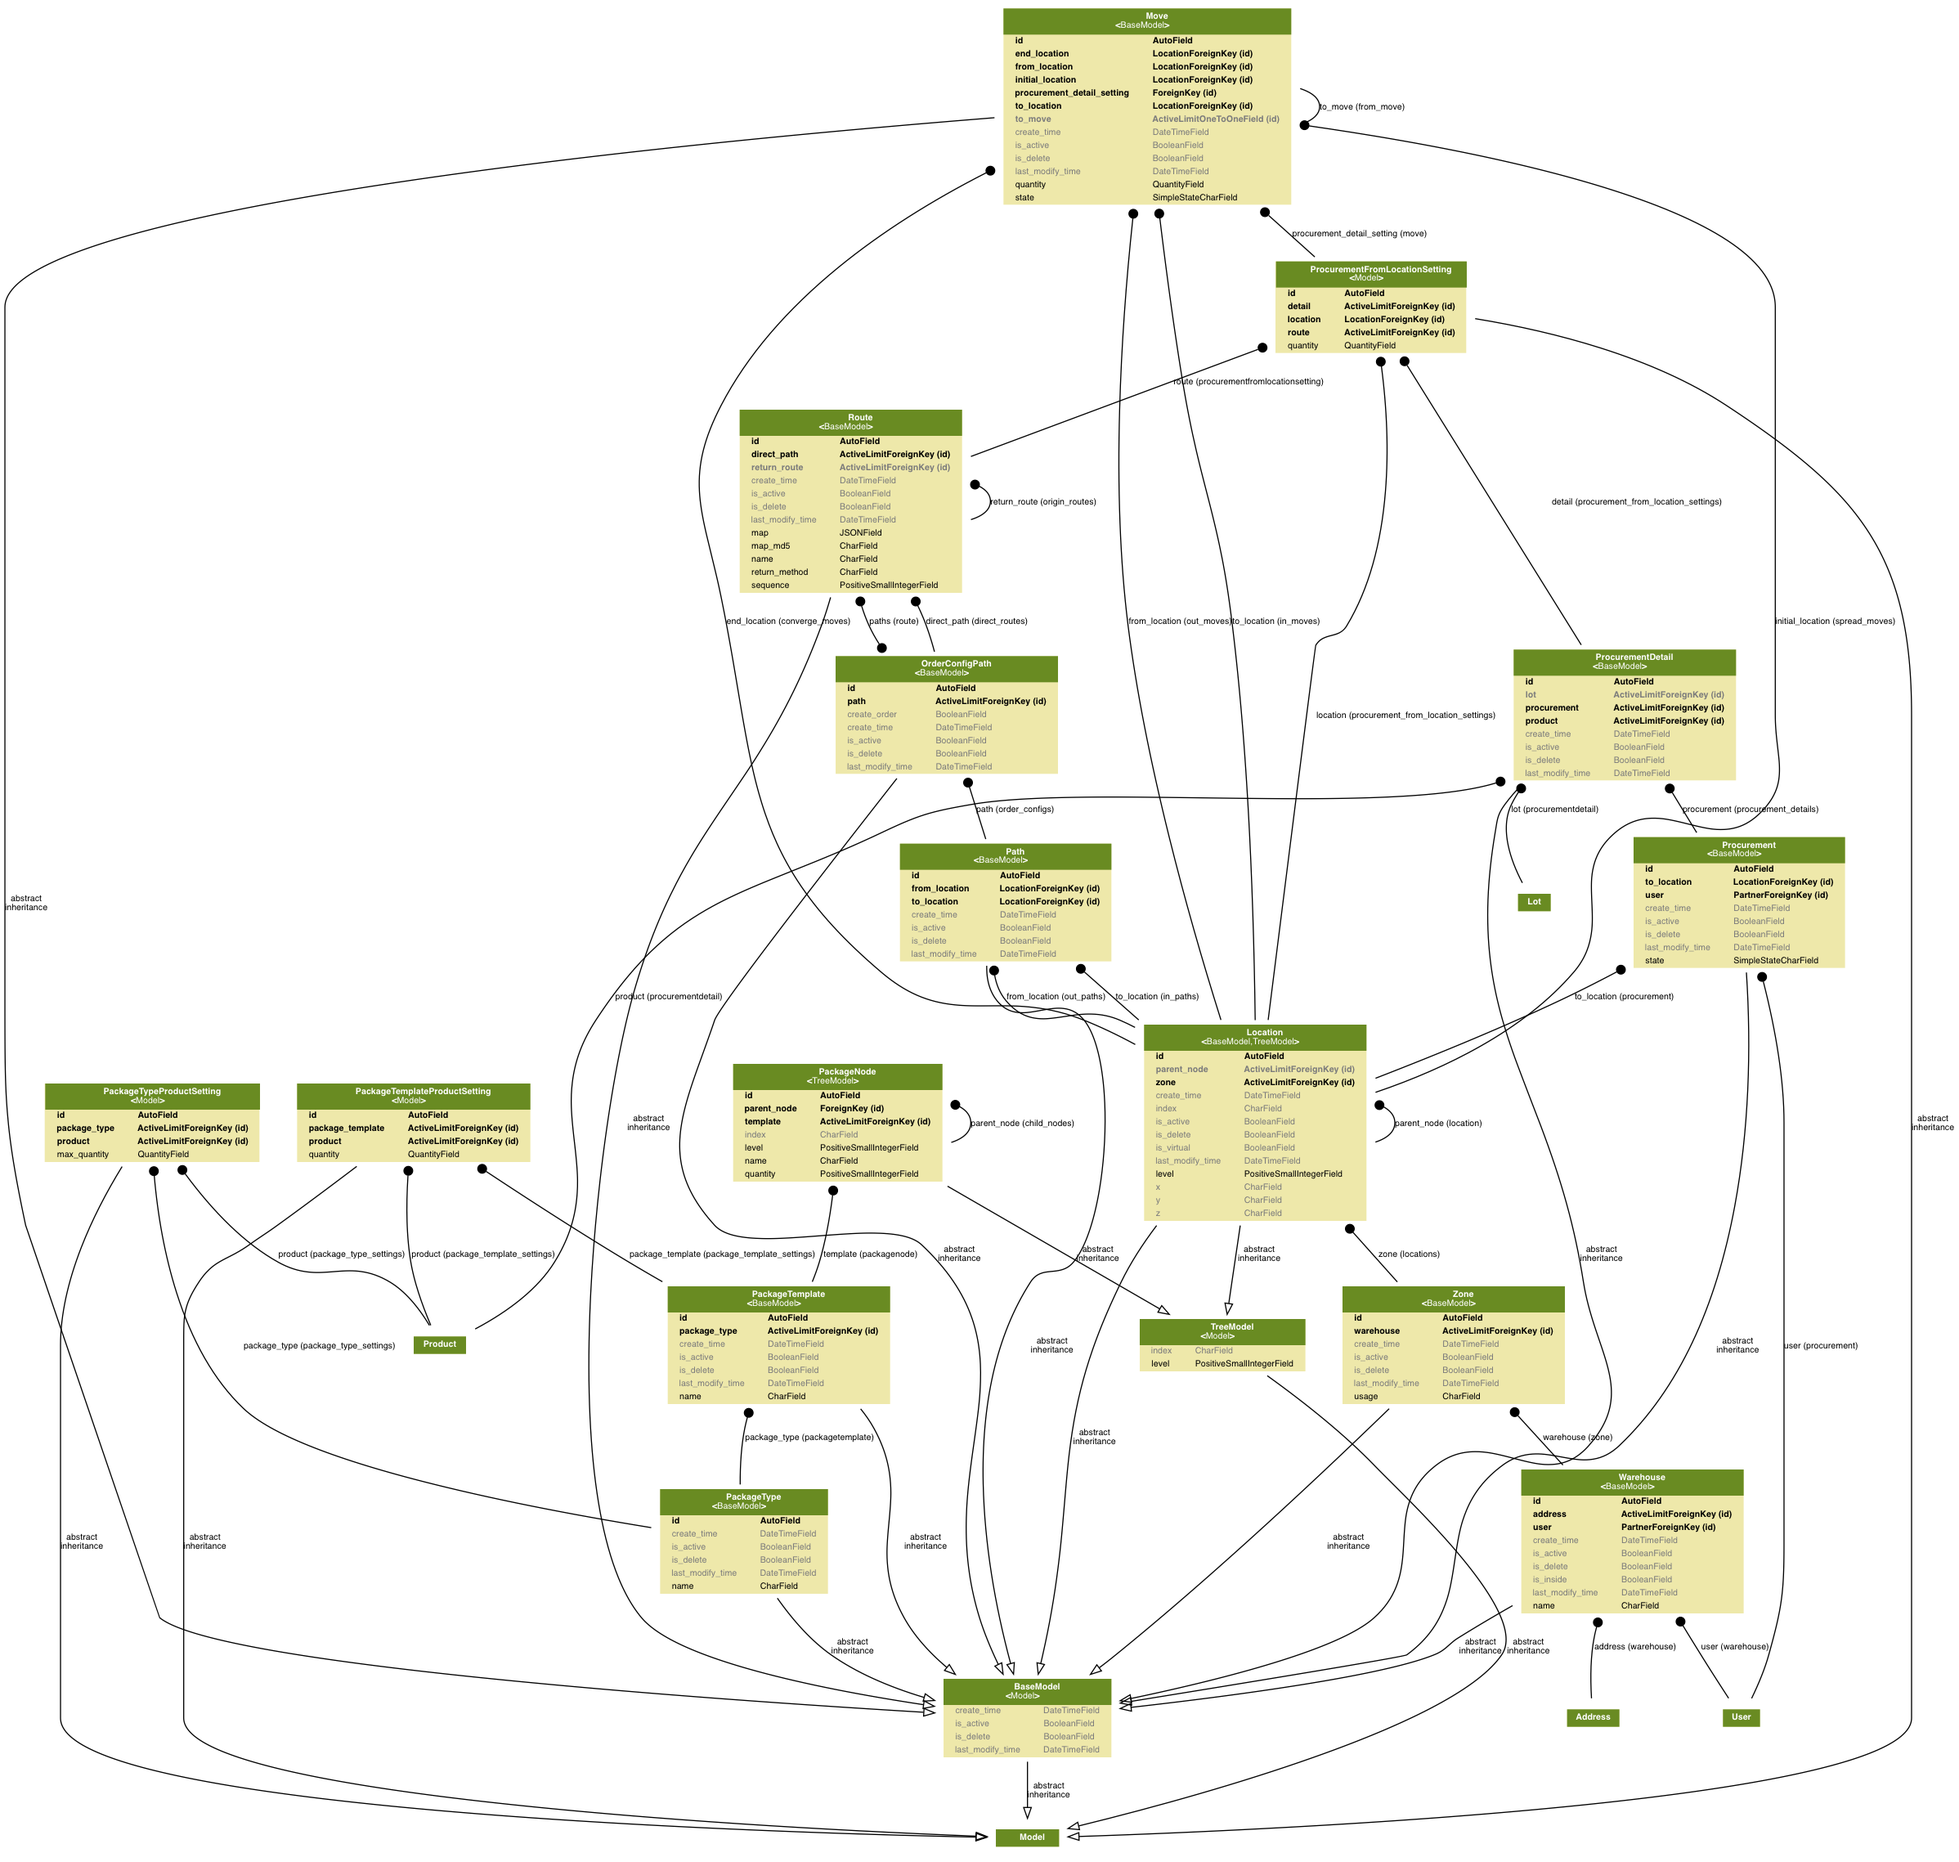
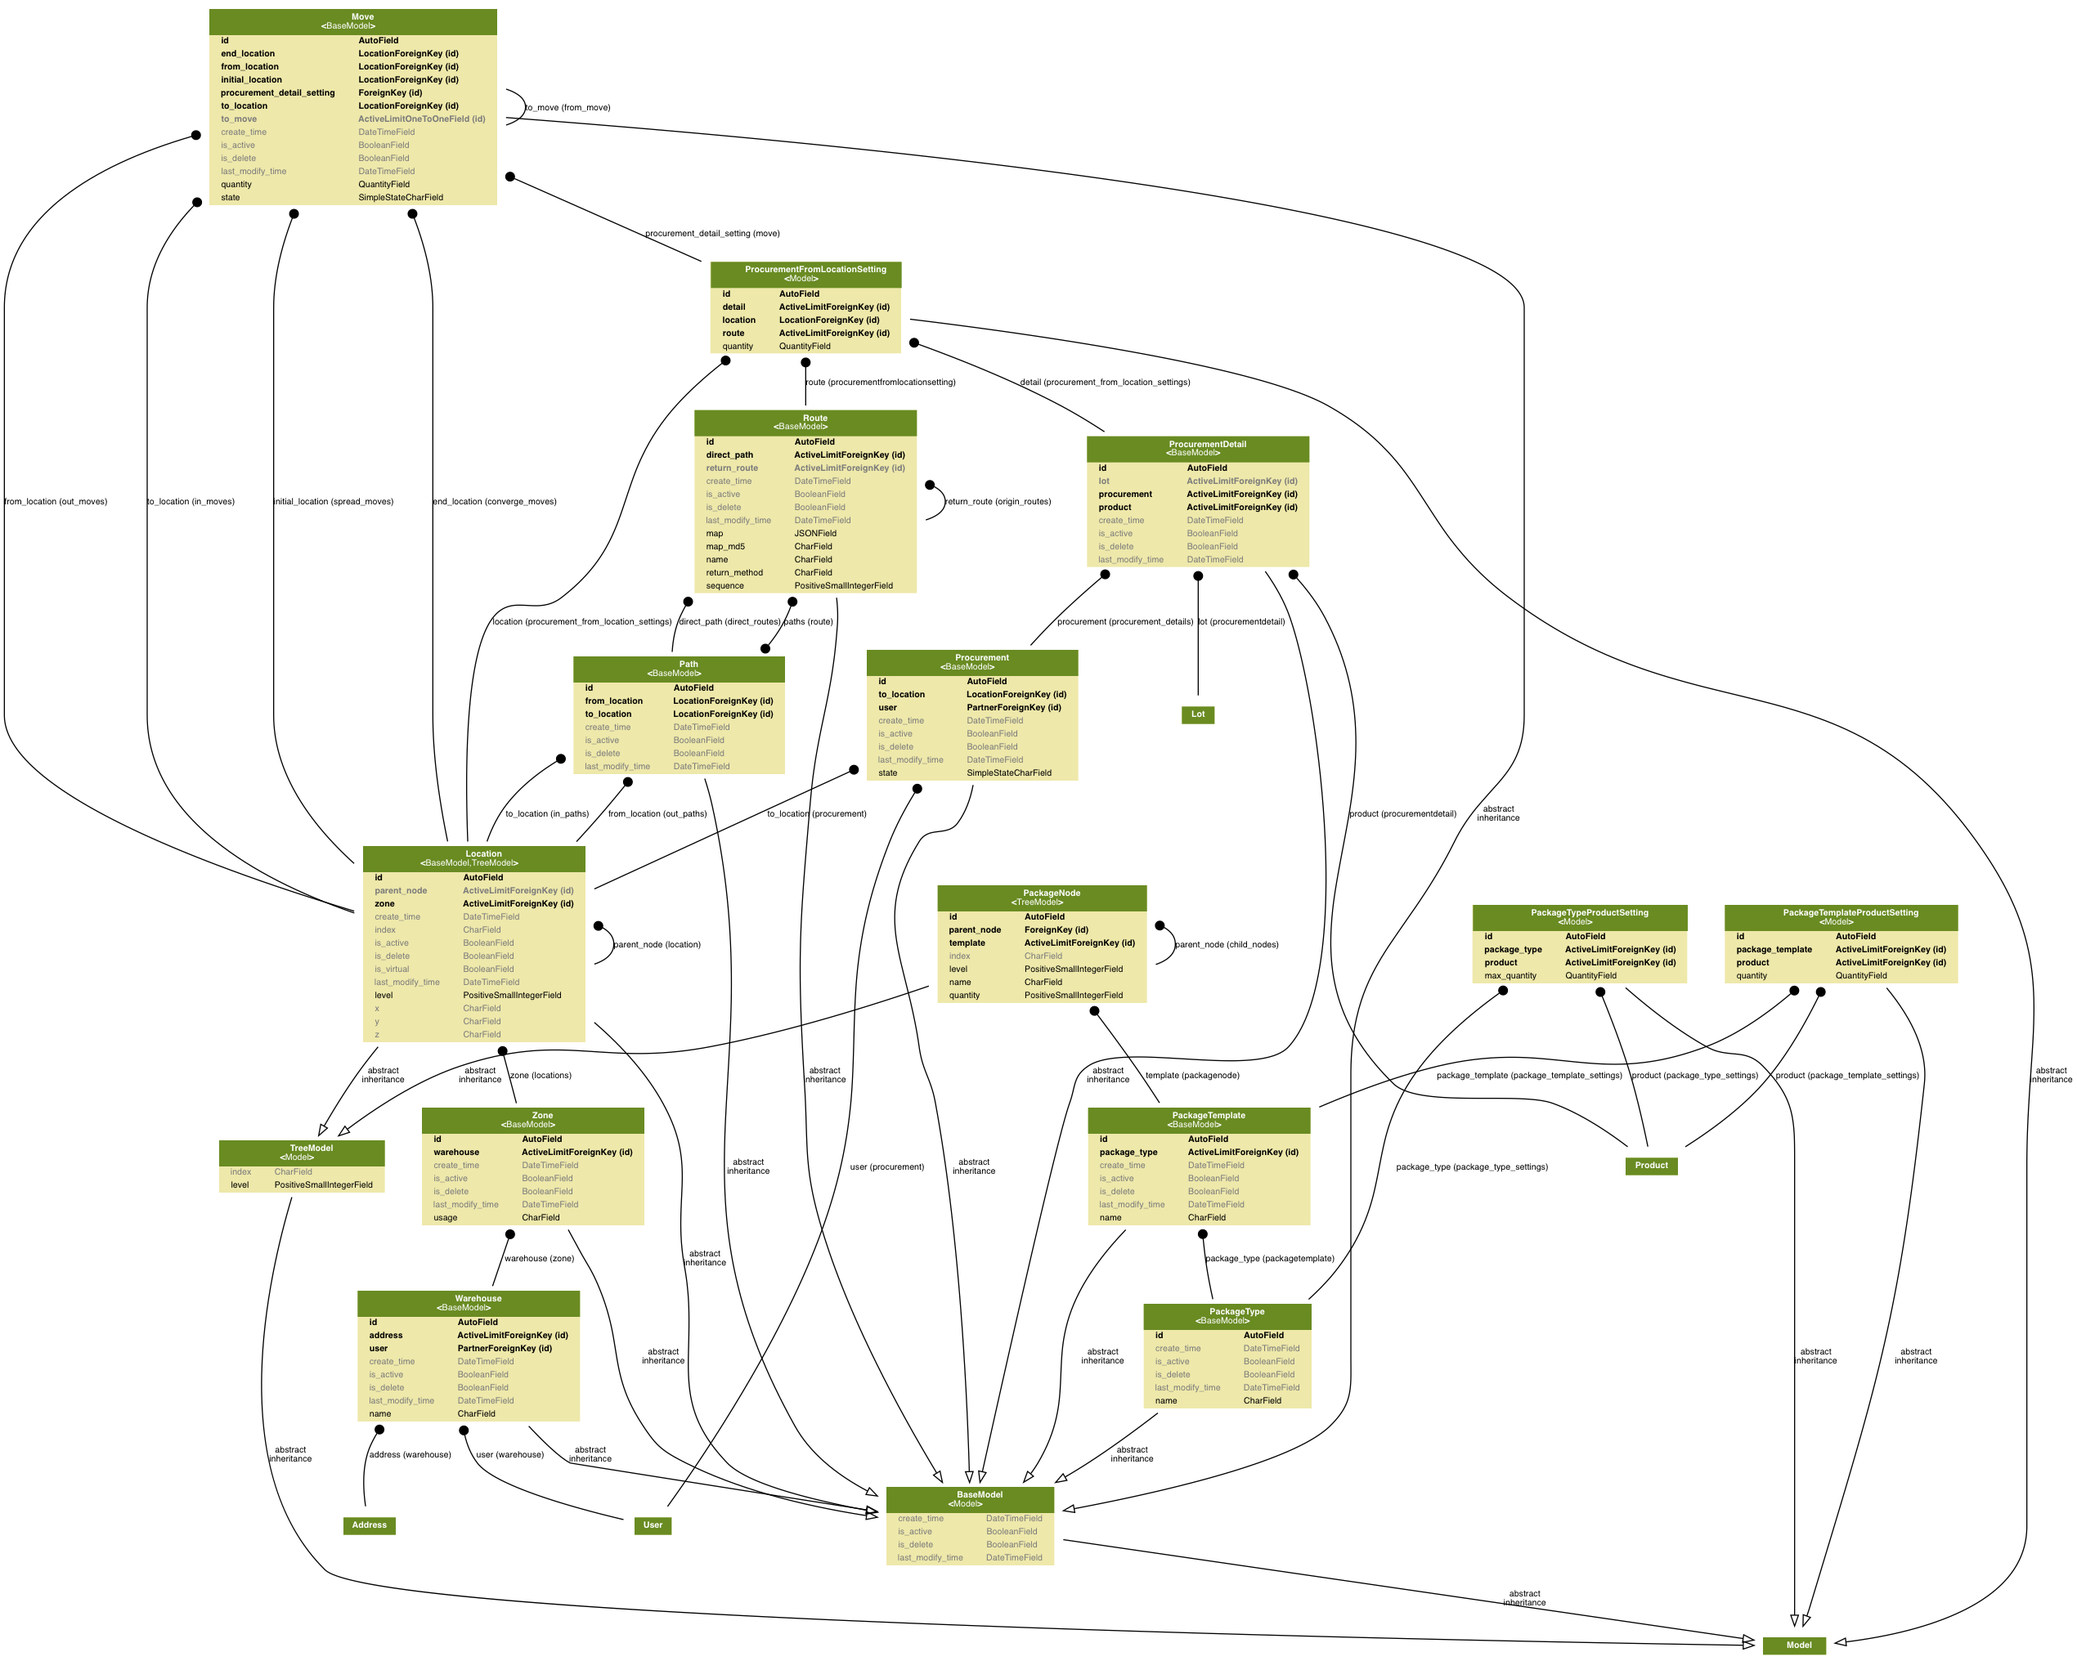
change method of the statemachine

diff --git a/stock/models.py b/stock/models.py
@@ -13,6 +13,7 @@ from account.utils import PartnerForeignKey
 from stock.utils import LocationForeignKey
 from djangoperm.db import models
 from django.db import transaction
+from django.db.models import Q
 
 
 
@@ -67,14 +68,6 @@ class Warehouse(BaseModel):
         help_text="仓库的名称"
     )
 
-    is_inside = models.BooleanField(
-        '是否为内部仓库',
-        null=False,
-        blank=False,
-        default=True,
-        help_text="是否为内部仓库"
-    )
-
     user = PartnerForeignKey(
         null=False,
         blank=False,
@@ -96,10 +89,6 @@ class Warehouse(BaseModel):
     class Meta:
         verbose_name = '仓库'
         verbose_name_plural = '仓库'
-
-    class States(BaseModel.States):
-        inside = Statement(*BaseModel.States.active.query, is_inside=True)
-        no_inside = Statement(*BaseModel.States.active.query, is_inside=False)
 
     def create_zones(self):
         '''
@@ -127,7 +116,8 @@ class Zone(BaseModel):
         ('repair', '返工维修区域'),
         ('scrap', '报废区域'),
         ('close-out', '平仓区域'),
-        ('initial', '初始区域')
+        ('initial', '初始区域'),
+        ('midway','中途岛区域')
     )
 
     warehouse = ActiveLimitForeignKey(
@@ -157,6 +147,26 @@ class Zone(BaseModel):
         unique_together = (
             ('warehouse', 'usage'),
         )
+
+    class States(BaseModel.States):
+        active = Statement(
+            Q(warehouse__is_active=True) & Q(warehouse__is_delete=False),
+            inherits=BaseModel.States.active
+        )
+        stock = Statement(inherits=active,usage='stock')
+        pick = Statement(inherits=active,usage='transfer-pick')
+        check = Statement(inherits=active,usage='transfer-check')
+        pack = Statement(inherits=active,usage='transfer-pack')
+        wait = Statement(inherits=active,usage='transfer-stream-wait')
+        deliver = Statement(inherits=active,usage='transfer-stream-deliver')
+        customer = Statement(inherits=active,usage='customer')
+        supplier = Statement(inherits=active,usage='supplier')
+        produce = Statement(inherits=active,usage='produce')
+        repair = Statement(inherits=active,usage='repair')
+        scrap = Statement(inherits=active,usage='scrap')
+        closeout = Statement(inherits=active,usage='close-out')
+        initial = Statement(inherits=active,usage='initial')
+        midway = Statement(inherits=active,usage='midway')
 
 
 class Location(BaseModel,TreeModel):
@@ -224,6 +234,29 @@ class Location(BaseModel,TreeModel):
         unique_together = (
             ('zone', 'x', 'y', 'z'),
         )
+
+    class States(BaseModel.States):
+        active = Statement(
+            (
+                Q(zone__is_delete=False) &
+                Q(zone__is_active=True) &
+                Q(zone__warehouse__is_delete=False) &
+                Q(zone__warehouse__is_active=True)
+            ),
+            inherits=BaseModel.States.active
+        )
+        virtual = Statement(inherits=active,is_virtual=True)
+        no_virtual = Statement(inherits=active,is_virtual=False)
+
+    def change_parent_node(self, node):
+        '''判断上级库位是否为虚拟库位'''
+        if node.is_virtual is True:
+            return super(Location, self).change_parent_node(node.id)
+        raise ValueError('上级库位必须为虚拟库位')
+
+    def get_product_quantity(self,product):
+        '''获取指定产品的数量'''
+        pass
 
 
 class Move(BaseModel):
@@ -301,6 +334,12 @@ class Move(BaseModel):
         verbose_name = '移动'
         verbose_name_plural = '移动'
 
+    class States(BaseModel.States):
+        active = BaseModel.States.active
+        draft = Statement(inherits=active,state='draft')
+        confirmed = Statement(inherits=active,state='confirmed')
+        done = Statement(inherits=active,state='done')
+
 
 # class PickOrder(StockOrder):
 #     '''分拣表单'''
@@ -342,6 +381,7 @@ class Move(BaseModel):
 #     '''报废表单'''
 #     pass
 
+
 class Path(BaseModel):
     '''路径'''
     from_location = LocationForeignKey(
@@ -372,40 +412,6 @@ class Path(BaseModel):
         unique_together = (
             ('from_location', 'to_location')
         )
-
-    def create_order_config_path(self):
-       OrderConfigPath.objects.bulk_create([
-            OrderConfigPath(path=self,create_order=True),
-            OrderConfigPath(path=self,create_order=False)
-        ])
-
-class OrderConfigPath(BaseModel):
-    '''订单配置路径'''
-    path = ActiveLimitForeignKey(
-        'stock.Path',
-        null=False,
-        blank=False,
-        verbose_name='路径',
-        related_name='order_configs',
-        help_text="相关的原始路径"
-    )
-
-    create_order = models.BooleanField(
-        '是否创建单据',
-        null=False,
-        blank=False,
-        default=False,
-        help_text="根据配置路径生成移动单时决定是否生成单据的配置"
-    )
-
-    def __str__(self):
-        return '{}({})'.format(self.path,self.create_order)
-
-    class Meta:
-        verbose_name = '路径配置',
-        verbose_name_plural = '路径配置',
-        unique_together = ('path','create_order')
-
 
 class Route(BaseModel):
     '''路线'''
@@ -441,7 +447,7 @@ class Route(BaseModel):
     )
 
     direct_path = ActiveLimitForeignKey(
-        'stock.OrderConfigPath',
+        'stock.Path',
         null=False,
         blank=False,
         related_name='direct_routes',
@@ -450,7 +456,7 @@ class Route(BaseModel):
     )
 
     paths = models.ManyToManyField(
-        'stock.OrderConfigPath',
+        'stock.Path',
         blank=False,
         verbose_name='路径',
         help_text="路线的详细路径"
@@ -489,6 +495,12 @@ class Route(BaseModel):
     class Meta:
         verbose_name = '路线'
         verbose_name_plural = '路线'
+
+    class States(BaseModel.States):
+        active = BaseModel.States.active
+        direct = Statement(inherits=active,return_method='direct')
+        fallback = Statement(inherits=active,return_method='fallback')
+        config = Statement(Q(return_route__isnull=False),inherits=active,return_method='config')
 
 
 class PackageType(BaseModel):

diff --git a/common/state.py b/common/state.py
@@ -13,17 +13,16 @@ class StateMachine(object):
     class States:
         pass
 
-    def check_state(self, state):
+    def check_states(self,*states):
         '''
-        check instance's state
-        :param state: state symbol
+        check whether the instance's state is in states list
+        :param states: list of state symbol string
         :return: True/False
         '''
-        statement = self.get_state(state)
+
         return self.__class__.objects.filter(
-            *statement.args,
-            pk=self.pk,
-            **statement.kwargs
+            Q(pk=self.pk) &
+            self.__get_states_quest(*states)
         ).exists()
 
     def set_state(self, state):
@@ -38,23 +37,21 @@ class StateMachine(object):
         )
         self.refresh_from_db()
 
-    def check_to_set_state(self, check_state, set_state):
+    def check_to_set_state(self, *check_states,set_state):
         '''
-        check if instance is check_state and set it to set_state
-        :param check_state: check state symbol
-        :param set_state: set state symbol
-        :return: True/False 
+        check whether the instance's state in check_states and set it to set_state
+        :param check_states: list of state symbol string
+        :param set_state: state symbol string
+        :return: True/False
         '''
-        check_statement = self.get_state(check_state)
-        set_satement = self.get_state(set_state)
+        set_statement = self.get_state(set_state)
         with transaction.atomic():
             instance = self.__class__.objects.select_for_update().filter(
-                *check_statement.args,
-                pk=self.pk,
-                **check_statement.kwargs
+                Q(pk=self.pk) &
+                self.__get_states_quest(*check_states)
             )
             if instance:
-                instance.update(**set_satement.kwargs)
+                instance.update(**set_statement.kwargs)
                 self.refresh_from_db()
                 return True
             return False
@@ -62,6 +59,17 @@ class StateMachine(object):
     def get_state(self, state):
         '''get statement instance'''
         return getattr(self.States, state)
+
+    def __get_states_quest(self,*states):
+        '''get statement instances by list'''
+        from functools import reduce
+        if len(states) > 1:
+            return reduce(
+                lambda a,b:Q(*a.args,**a.kwargs) | Q(*b.args,**b.kwargs),
+                [self.get_state(state) for state in states]
+            )
+        statement = self.get_state(states[0])
+        return Q(*statement.args,**statement.kwargs)
 
     @classmethod
     def check_state_queryset(cls,state,queryset):
@@ -130,9 +138,10 @@ class StateMachine(object):
 class Statement(object):
     '''model's statement define in States inner class'''
 
-    def __init__(self, *args, inherits=None, **kwargs):
+    def __init__(self, *args, inherits=None,error_message='', **kwargs):
         self.kwargs = kwargs
         self.args = args
+        self.error_message = error_message
         if inherits:
             try:
                 for state in inherits:

diff --git a/product/tests.py b/product/tests.py
@@ -16,11 +16,15 @@ class ProductCategory(TestCase):
         ])
         self.queryset = models.ProductCategory.objects.all()
 
-    def test_check_state(self):
-        self.assertEqual(self.instance.check_state('delete'), False)
-        self.assertEqual(self.instance.check_state('no_delete'), True)
-        self.assertEqual(self.instance.check_state('active'), True)
-        self.assertEqual(self.instance.check_state('no_active'), False)
+    def test_check_states(self):
+        self.assertEqual(self.instance.check_states('delete'), False)
+        self.assertEqual(self.instance.check_states('no_delete'), True)
+        self.assertEqual(self.instance.check_states('active'), True)
+        self.assertEqual(self.instance.check_states('no_active'), False)
+        self.assertTrue(self.instance.check_states('no_delete','active'))
+        self.assertTrue(self.instance.check_states('no_delete','no_active'))
+        self.assertTrue(self.instance.check_states('delete','active'))
+        self.assertFalse(self.instance.check_states('delete','no_active'))
 
     def test_set_state(self):
         self.instance.set_state('delete')
@@ -33,13 +37,13 @@ class ProductCategory(TestCase):
         self.assertEqual(self.instance.is_active, True)
 
     def test_check_to_set_state(self):
-        self.assertEqual(self.instance.check_to_set_state('no_delete', 'delete'), True)
+        self.assertEqual(self.instance.check_to_set_state('no_delete', set_state='delete'), True)
         self.assertEqual(self.instance.is_delete, True)
-        self.assertEqual(self.instance.check_to_set_state('delete', 'no_delete'), True)
+        self.assertEqual(self.instance.check_to_set_state('delete', set_state='no_delete'), True)
         self.assertEqual(self.instance.is_delete, False)
-        self.assertEqual(self.instance.check_to_set_state('active', 'no_active'), True)
+        self.assertEqual(self.instance.check_to_set_state('active', set_state='no_active'), True)
         self.assertEqual(self.instance.is_active, False)
-        self.assertEqual(self.instance.check_to_set_state('no_active', 'active'), True)
+        self.assertEqual(self.instance.check_to_set_state('no_active', set_state='active'), True)
         self.assertEqual(self.instance.is_active, True)
 
     def test_check_state_queryset(self):

diff --git a/stock/signals.py b/stock/signals.py
@@ -25,13 +25,6 @@ def create_zone_location(sender, instance, created, **kwargs):
         )
 
 
-@receiver(post_save, sender=models.Path)
-def create_order_config_path(sender, instance, created, **kwargs):
-    '''保存时,创建配置路径'''
-    if created:
-        instance.create_order_config_path()
-
-
 @receiver(pre_save, sender=models.Route)
 def create_map_md5(sender, instance, **kwargs):
     '''保存时,更新路径列表的md5值'''

diff --git a/stock/admin.py b/stock/admin.py
@@ -59,8 +59,7 @@ class PackageTemplateProductSettingInline(CommonTabInLine):
 
 @admin.register(models.Warehouse)
 class WarehouseAdmin(CommonAdmin):
-    list_display = ('name', 'is_inside', 'user', 'address')
-    list_filter = ('is_inside',)
+    list_display = ('name', 'user', 'address')
     search_fields = ('name',)
     list_editable = ('name',)
     inlines = (

diff --git a/stock/serializers.py b/stock/serializers.py
@@ -22,7 +22,7 @@ class WarehouseSerializer(ActiveModelSerializer):
 
     class Meta:
         model = models.Warehouse
-        fields = ('name', 'is_inside', 'user', 'address', 'user_detail', 'address_detail')
+        fields = ('name', 'user', 'address', 'user_detail', 'address_detail')
 
 
 class ZoneSerializer(ActiveModelSerializer):
